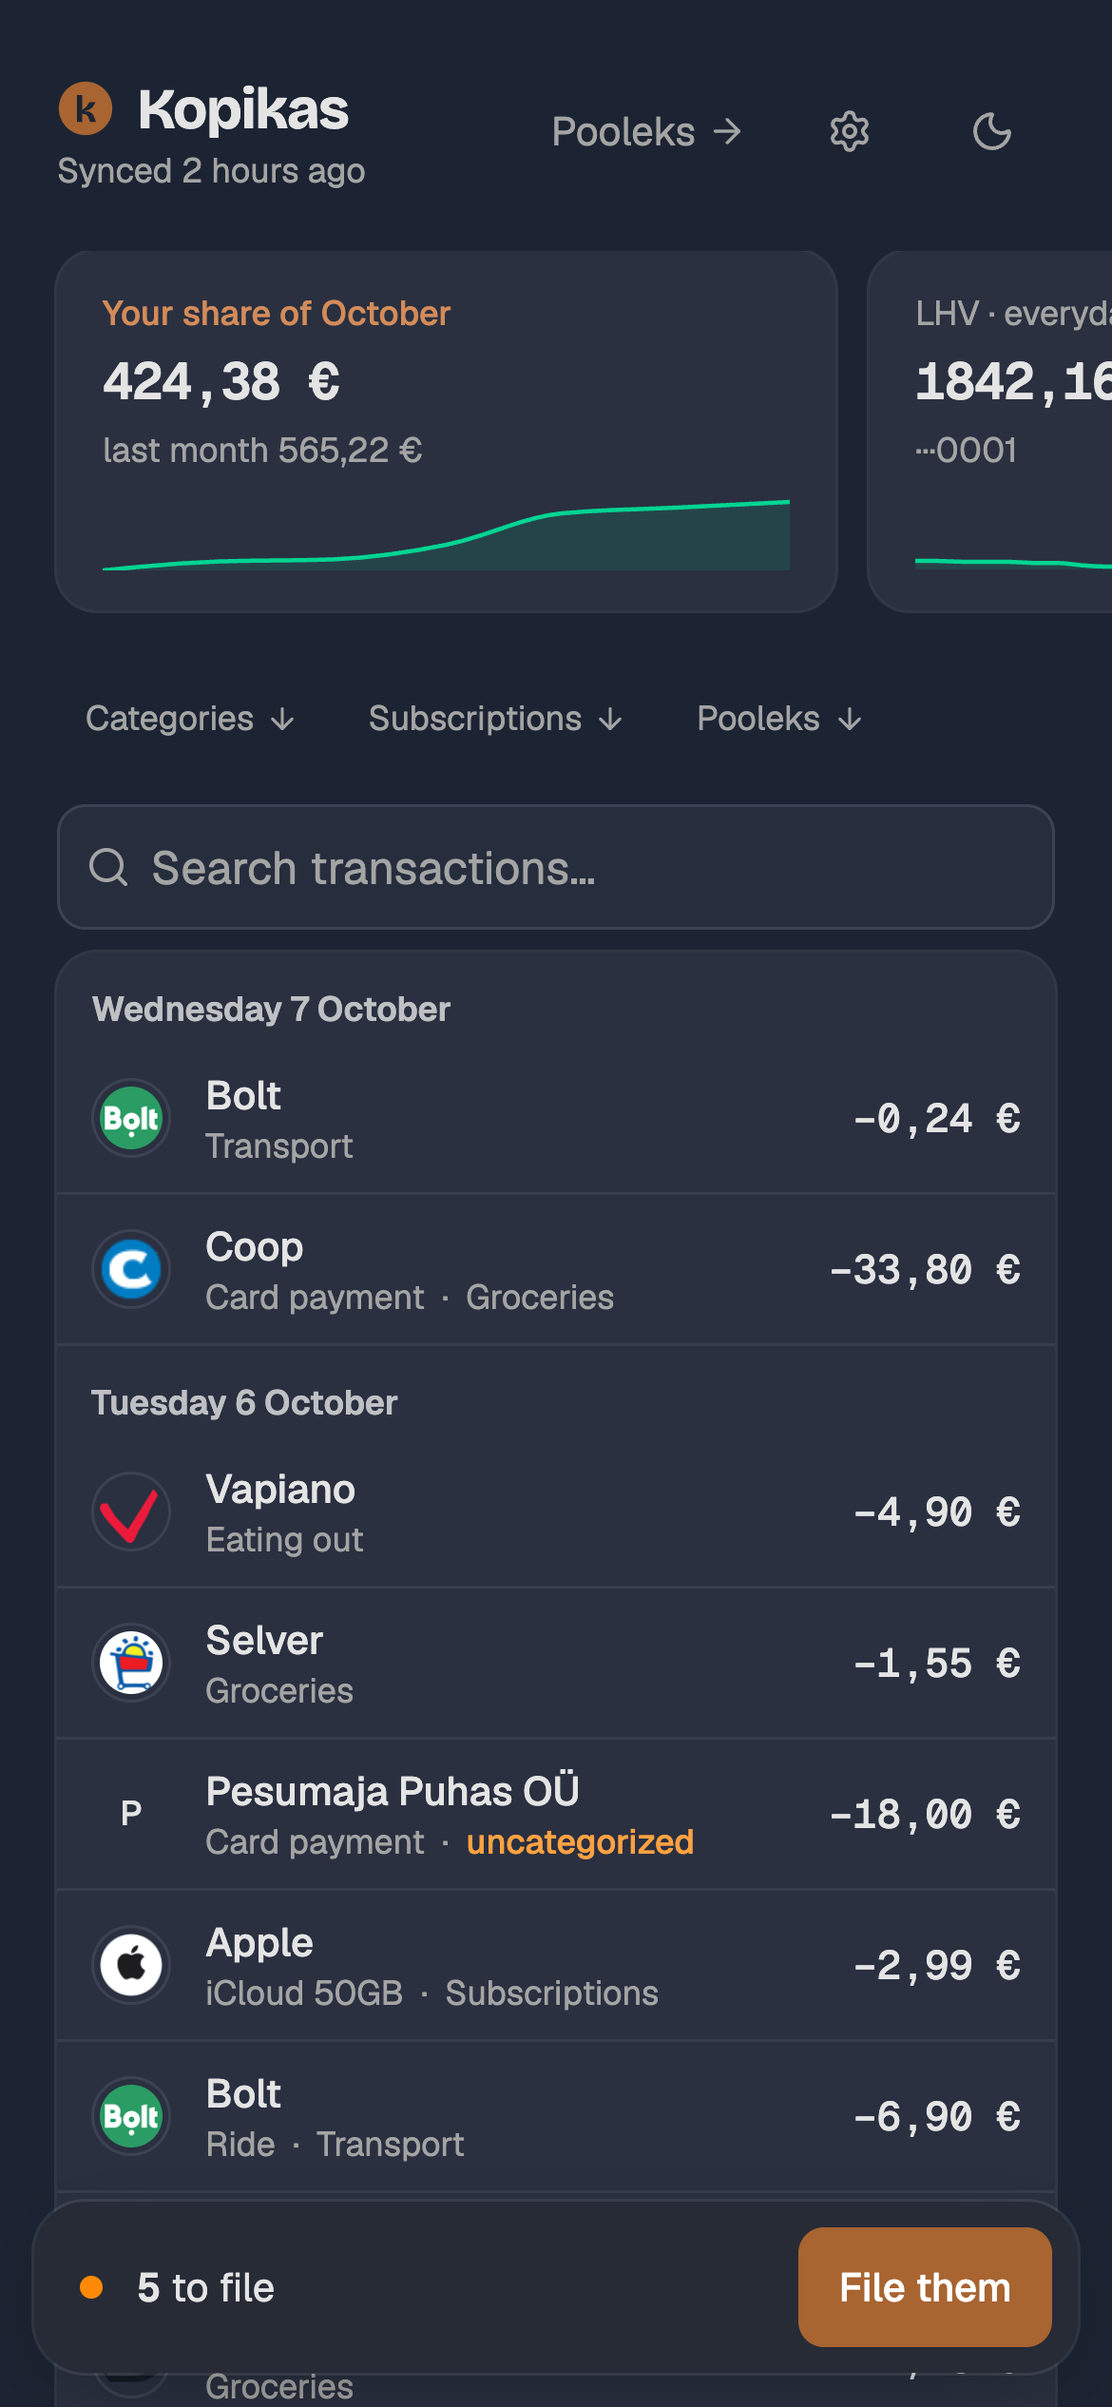
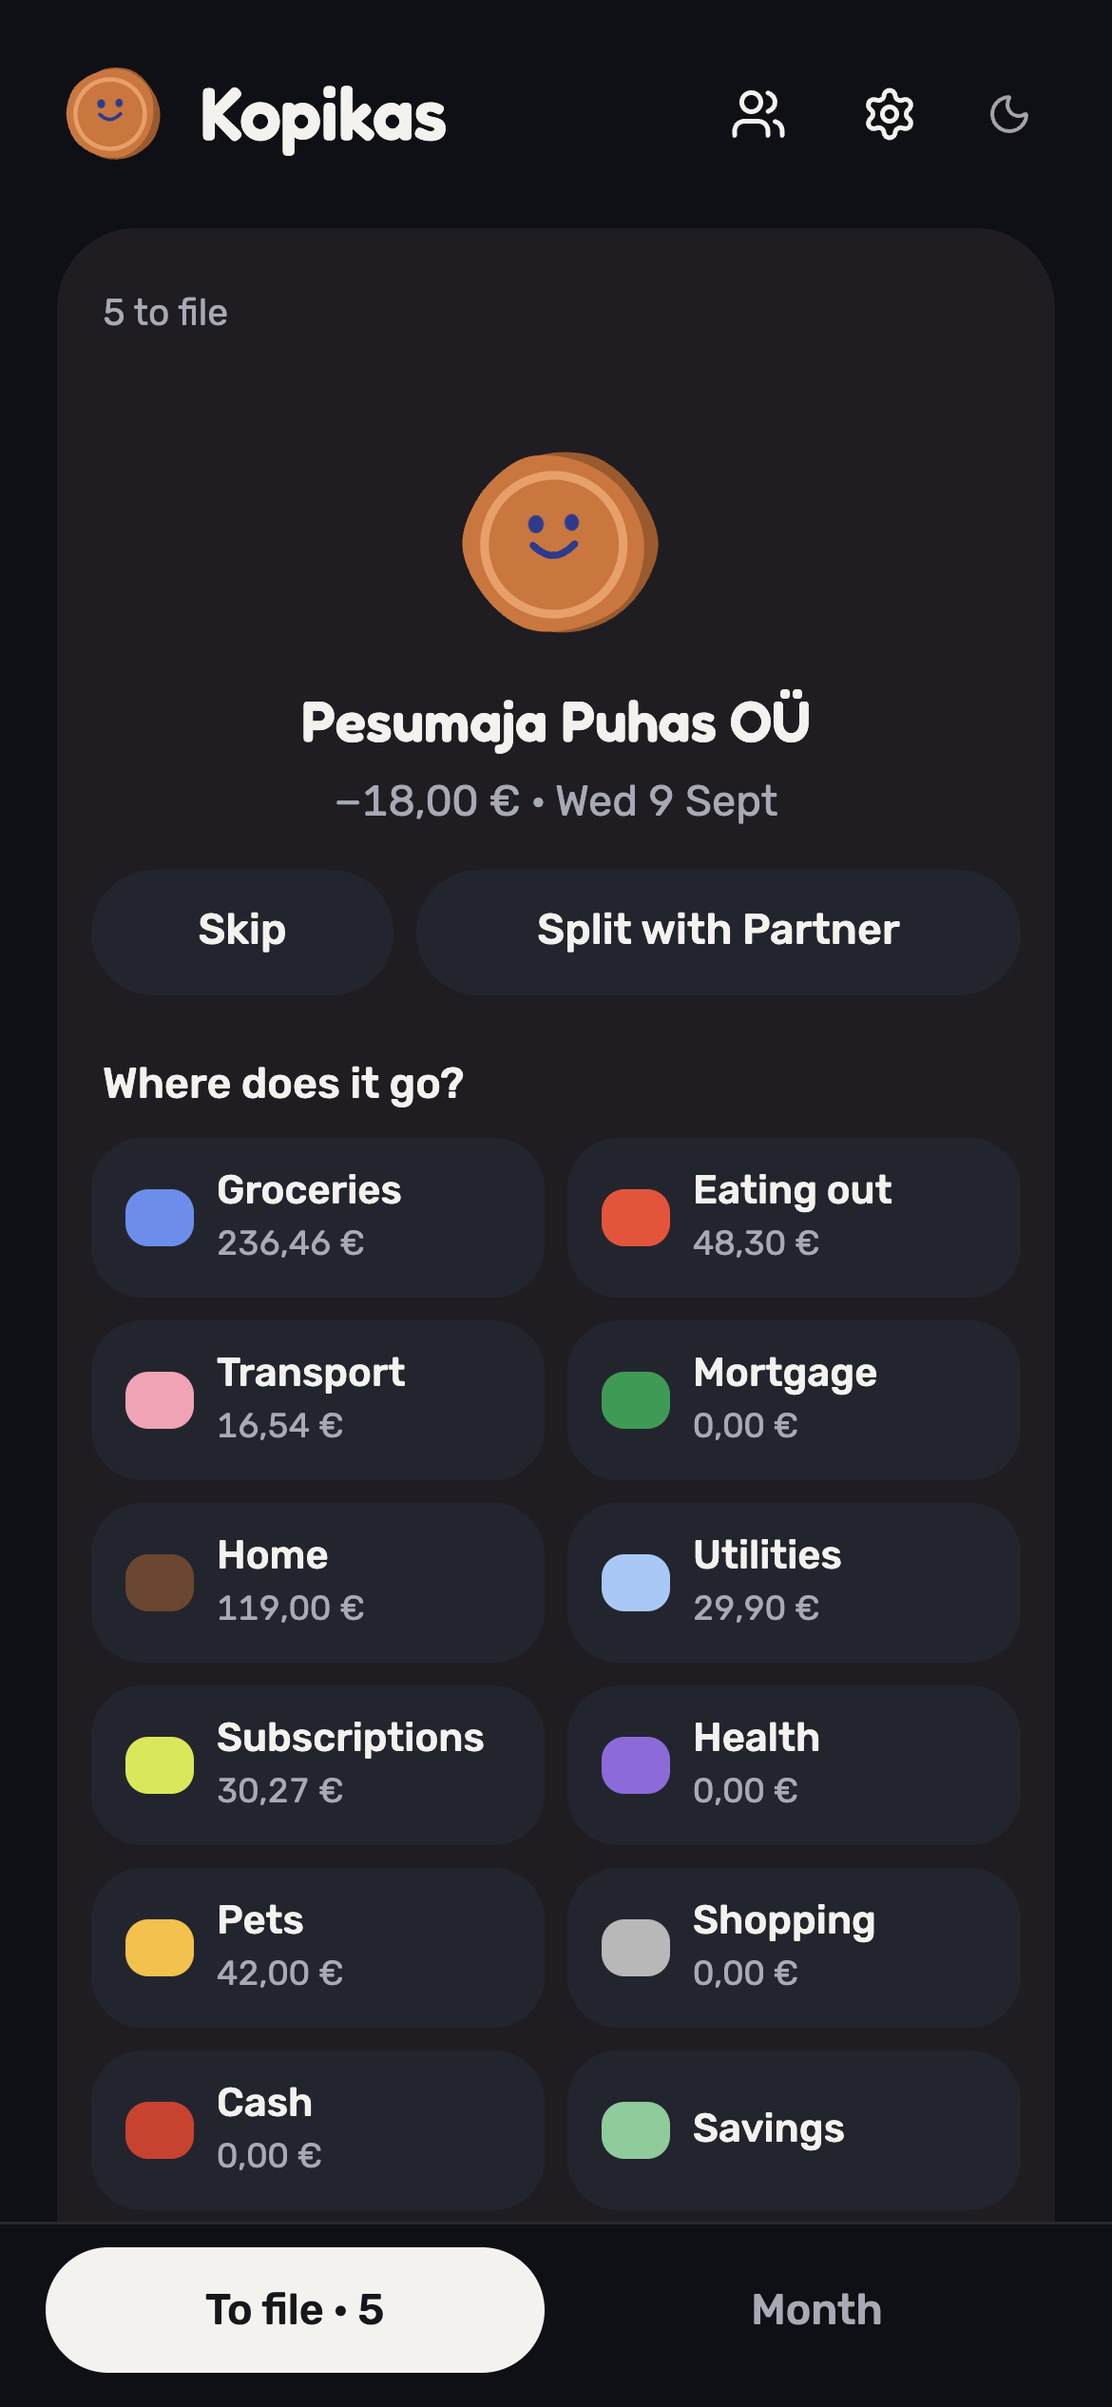
README: the board as it is now, with new pictures
What is on the board, the phone, how it is built and the design notes now
describe the coin tray: rolls on one floor, loose change, a roll's year, the
charges list and its menus, Subscriptions, and the phone's two tabs. New
pictures of the board, filing a coin, the year strip, Subscriptions and the
phone; the old drag GIF and file-under prompt go.

diff --git a/README.md b/README.md
@@ -1,58 +1,58 @@
 # Kopikas
 
-A personal money board fed by LHV bank data. Transactions arrive as one ruled statement, and you file them by dragging. Named after the humble coin: *iga kopikas loeb*, every penny counts.
+A personal money board fed by LHV bank data. Every charge arrives as a coin, and you file it into a roll. Named after the humble coin: *iga kopikas loeb*, every penny counts.
 
 <picture>
   <source media="(prefers-color-scheme: dark)" srcset="docs/board-dark.png">
-  <img alt="The board on mock data: four stat tiles, the ledger grouped by day, and the categories card with five charges to file" src="docs/board-light.png">
+  <img alt="The board on mock data: September's rolls on one floor, Groceries past its limit, and two loose coins waiting to be filed" src="docs/board-light.png">
 </picture>
 
 ## Why
 
-Bank apps are built for a phone: tiny numbers, one transaction at a time, no way to see a month at once. Kopikas wants a big screen. It shows the whole month as one ledger, and categorising becomes a physical gesture: drop a charge on a category, tick *always*, and every past and future charge from that merchant files itself. Two thousand transactions sort themselves in an afternoon.
+Bank apps are built for a phone: tiny numbers, one transaction at a time, no way to see a month at once. Kopikas wants the month as one picture. Every category is a roll with a face that grows as charges go in, all on one shared scale, and categorising becomes a small physical act: drop a coin in a roll, tick *always*, and every past and future charge from that merchant files itself. Two thousand transactions sort themselves in an afternoon.
 
 It is built for one household. Two people sign in, one owns the board and the other sees the shared page. There is no multi-tenant anything.
 
 ## What is on the board
 
-The ledger is the middle column: every transaction, newest first, grouped by day, with the merchant's real name and favicon instead of the bank's shouting string. Click the icon, here or on a subscription row, to give a merchant your own name, a website for its favicon, or an emoji; it applies to every charge from that merchant. Card payments are one line. Transfers keep their payment note. Shared rows wear a faint purple wash. Search sits above it and matches the names you see, not only the bank's strings. The current view lives in the URL (`?cat`, `?month`, `?q`), so a filtered month is a link you can keep.
+The month is the tray at the top. Every category is a roll on one floor, as tall as what went into it that month on a shared scale, so the shape of the month shows before you read a number; every amount is still written under its roll. A roll with nothing in it sleeps, a short one shows only its eyes, a grown one its whole face. Give a category a monthly limit and its roll stands in a dashed outline the limit's height, a jar it is filling; past the limit, the part above the line turns a shade darker. Above the floor, arrows step through the months, and Paid out is everything that left the account that month except savings, shared costs at full price. The line under it says what came in, your share in a month with splits, the account balances and the investments. The LHV investment account is read from the API on every sync, one snapshot a day refreshed through the day; the Lightyear pot has no API and is entered by hand. Under the wordmark, the board says when it last heard from LHV; past 26 hours that line turns into a warning that links to Settings.
 
-A row's category is also a button. It opens a menu with every category, the split with the partner, and the merchant's name and icon, so everything a drag can do works from the keyboard too.
+Charges not filed yet are the loose change, a small pile of coins in the corner of the tray. Pick one up and tap a roll, and it hops in; the roll gulps and grows. The notice that follows offers *Always*, which writes a rule: a lowercase substring matched against the counterparty and description, so every past and future charge from that merchant files itself. Rules are listed on the Settings page, grouped by the category they file into, with the ones that match nothing gathered first. The tray shows one month at a time; coins from other months wait in their own, and a line under the pile takes you there.
 
-The rail on the right puts every drop target at the top: the categories card, then a strip with the two other places a charge can go, Track as a subscription and Split with the partner. Below them sit the cards you only read: subscriptions, the Pooleks balance and investments over time. While a charge is in the air the reading cards fold away and every target is outlined, so they all fit on screen.
+![Picking up a loose coin and tapping Home: the coin hops into the roll, Home grows from 119 € to 137 €, and the notice offers Always and Undo](docs/filing.gif)
 
-Categories start as a default list, and a cog on the card renames them, adds new ones or drags them into a new order; a rename carries every rule and filed charge along. Arrows in the card's header step through the months. Each row shows the month's total with a copper bar for its share of the largest, and each row is a drop target. Give a category a monthly limit in the same dialog and its bar becomes a meter against the limit, amber once it is passed. Select a category and a twelve-month strip appears above the ledger: a bar per month, the average as a line, the limit as another; click a month to move the card there. A drop asks whether to file just this one or *always*; *always* writes a rule, which is a lowercase substring matched against the counterparty and description. Rules are listed on the Settings page, grouped by the category they file into, with the ones that match nothing gathered first. Under the categories, Paid out is everything that left the account that month except savings, shared costs at full price. Incoming money has its own line, Received; clicking it shows who sent what.
+Tap a roll and the board looks at that category: the other rolls fade, the list below shows its charges, and the line under the total becomes its last twelve months, a bar a month drawn like the rolls, with the average and the limit. Click a bar to go to that month. The current view lives in the URL (`?cat`, `?month`, `?q`), so a category in a given month is a link you can keep.
 
-![Dragging an uncategorised charge onto the Home row and choosing Always: the merchant's other charges file with it, and five to file becomes Everything filed](docs/drag.gif)
+<img src="docs/year-light.png" width="560" alt="Groceries chosen: a bar for each of the last twelve months under the total, the limit dashed across them, September at full strength">
 
-<img src="docs/file-under.png" width="620" alt="The prompt after the drop: file every charge from this merchant here, or only this one">
+Below the tray, Every charge lists the month newest first, with the merchant's real name and favicon instead of the bank's shouting string. Card payments are one line. Transfers keep their payment note. Search looks through every month and matches the names you see, not only the bank's strings, and Money in shows what came in and from whom. A row's category is a button: it opens a menu with every category, the split with the partner, and the merchant's name and icon, so everything a drag can do works from the keyboard too. On a big screen a row can also be dragged straight onto a roll. Click a merchant's icon to give it your own name, a website for its favicon, or an emoji; it applies to every charge from that merchant.
 
-Subscriptions watches recurring charges. Drop one on Track as a subscription, or on the Subscriptions row in the categories card, and the board records the merchant pattern and expected amount, then tracks the last charge, the next due date, and whether the price moved. A price change shows as a badge you click to accept the new price. A charge that stops arriving shows as gone quiet. Rows group into monthly and yearly, with a per-month total at the bottom that spreads the yearly ones over twelve months; the guess between the two reads the statement text when there is only one charge to go on, re-measures itself once a second charge lands, and a control on each row corrects it for good.
+Categories start as a default list, and Edit categories under the tray renames them, adds new ones, drags them into a new order and sets their limits; a rename carries every rule and filed charge along.
+
+Subscriptions watches recurring charges. File a charge in the Subscriptions roll and the board records the merchant pattern and expected amount, then tracks the last charge, the next due date, and whether the price moved. The card beside the list shows only what needs you, a new price to accept, one gone quiet, one due within a week, and what they all cost a month, the yearly ones spread over twelve. The full list opens in place, monthly and yearly apart. The guess between the two reads the statement text when there is only one charge to go on and re-measures itself once a second charge lands; each row's menu corrects it for good, renames the subscription or stops tracking it.
 
 <p>
-  <img src="docs/subscriptions-dark.png" width="380" alt="The Subscriptions card: monthly and yearly groups, a price-change badge to accept, and a per-month total that spreads the yearly ones over twelve months">
-  <img src="docs/mobile-dark.png" width="290" alt="The board on a phone">
+  <img src="docs/subscriptions-dark.png" width="380" alt="The Subscriptions card: a new price to accept, one gone quiet, and the full list open on a row's menu with Name and icon, Make yearly and Stop tracking">
+  <img src="docs/mobile-dark.png" width="290" alt="The board on a phone: one coin to file, Skip and Split under it, and a tile for every category">
 </p>
 
-Pooleks (Estonian for *in half*) is the shared ledger. Drop a charge on Split with the partner, with a 1/2, 1/3 or 1/4 split, and it becomes a line on a running statement of who owes whom. Each line shows its amount and an arrow: who owes whom for a shared cost, who paid whom for a repayment. Choose Always and every future charge from that merchant lands on the statement by itself at the same split; past charges are left alone, and the rule can be removed on Settings. The partner signs in and sees the same statement with the labels flipped, plus a dialog to add what they paid for. Either of you records a repayment with Settle up, which shows what the amount would leave open before it is recorded; either can remove one, and new ones say who recorded them. Everything before the latest repayment folds into one line, so the statement shows what is open. This is what replaced Splitwise here: the rows come from the bank, so nothing is typed twice.
+Pooleks (Estonian for *in half*) is the shared ledger. Split a charge from its row's menu, at 1/2, 1/3 or 1/4, and it becomes a line on a running statement of who owes whom; the Pooleks card beside the list says where the balance stands. Each line shows its amount and an arrow: who owes whom for a shared cost, who paid whom for a repayment. Choose Always and every future charge from that merchant lands on the statement by itself at the same split; past charges are left alone, and the rule can be removed on Settings. The partner signs in and sees the same statement with the labels flipped, plus a dialog to add what they paid for. Either of you records a repayment with Settle up, which shows what the amount would leave open before it is recorded; either can remove one, and new ones say who recorded them. Everything before the latest repayment folds into one line, so the statement shows what is open. This is what replaced Splitwise here: the rows come from the bank, so nothing is typed twice.
 
 ![Pooleks: the shared statement, one amount and an arrow per line, opened past the latest repayment to show the lines before it](docs/pooleks-dark.png)
 
-The stat row across the top shows your share of this month's spending against last month (shared costs at your part), the account balances with a 30-day line each, and an Investments tile. The LHV investment account is read from the API on every sync, one snapshot a day refreshed through the day; the Lightyear pot has no API and is entered by hand. Both are charted over time. Under the wordmark, the board says when it last heard from LHV; past 26 hours that line turns amber and links to Settings.
+Most one-click changes can be taken back: filing a charge, tracking a subscription, splitting a charge or taking it off Pooleks, forgetting a rule, stopping a subscription, accepting a new price, recording or removing a repayment. A notice offers Undo for a few seconds, and ⌘Z or Ctrl+Z does the same. When a change fails, the page says why instead of pretending it worked.
 
-Most one-click changes can be taken back: forgetting a rule, taking a charge off Pooleks, cancelling a subscription, accepting a new price, recording or removing a repayment. A notice offers Undo for a few seconds, and ⌘Z or Ctrl+Z does the same. When a change fails, the page says why instead of pretending it worked.
-
-On a phone the board is one column. The stat tiles become a row you swipe, a bar at the foot of the screen counts what is left to file, and tapping it narrows the ledger to that queue. Tapping a row opens a sheet with every category as a large button; each filed row leaves, and the next one is where your thumb is. Filing a backlog is the phone's job; seeing the month at once is still the big screen's.
+On a phone the board is two tabs at the foot of the screen. To file is the backlog from every month, one coin at a time: the merchant, the amount and the day, Skip and Split under it, and every category as a large tile with what it already holds that month. Tap one and the next coin comes up where your thumb is. Month is the tray, its rolls lying down as bars, with the charges and the cards below. Filing a backlog is the phone's job; seeing the month at once is still the big screen's.
 
 ## How it is built
 
-Next.js 16 on the App Router, React 19, TypeScript, Tailwind v4, shadcn/ui on Base UI. Drag and drop is dnd-kit, for the mouse; the keyboard and touch file through a Base UI menu and a sheet. The ledger's enter and exit animation is Motion, one flat presence for headers and rows alike. Rows are memoised and compare the fields they show, so a thousand of them only redraw when they change, and an action's reply carries the fresh board, so a change is one request. Sign-in is Clerk. Production runs on Vercel with Postgres on Neon.
+Next.js 16 on the App Router, React 19, TypeScript, Tailwind v4, shadcn/ui on Base UI. The tray is SVG drawn in code: every roll, coin and face is a path whose edges are nudged in long, seeded waves, so it looks cut by hand yet keeps its shape from one render to the next, and Motion springs the hops, the gulps and the growing. Drag and drop is dnd-kit, for the mouse; the keyboard files through a Base UI menu, and a finger through the phone's queue. An action's reply carries the fresh board, so a change is one request. Sign-in is Clerk. Production runs on Vercel with Postgres on Neon.
 
 One storage module, `lib/storage.ts`, hides two adapters behind the same interface. With `DATABASE_URL` set it talks to Postgres and creates or updates its own tables on first start; without it, each collection is a JSON file under `data/`. The JSON adapter seeds mock data into an empty folder, so `npm run dev` with no configuration at all gives you a working board with invented merchants and amounts. That is how the screenshots were made. Production starts empty and asks you to connect LHV. `data/` is gitignored, so nothing real can end up in the repo by accident.
 
 Merchant identity lives in `lib/icons.ts`: a small table of known merchants with a favicon domain and a display name, matched on the counterparty or, for card payments that only carry a merchant id, on the description. Unknown ALL-CAPS strings are title-cased. Favicons are fetched once by the server and cached in the database, so the merchant list never leaves the app from a viewer's browser.
 
-Design notes: copper accent from the coin, Geist for text and Geist Mono for amounts with tabular figures, Bricolage Grotesque for the wordmark and the section heads, green and red reserved for money in and money out, purple for shared, amber for things that need filing. The colours that are also fills have a darker shade for text, which reads at 4.5:1 in both themes.
+Design notes: the board is painted, not charted. A white page, a warm oat stage, copper from the coin as the house colour, and one matte wrapper colour per category, given by its place in the list; every face is drawn in the same crayon. Fredoka is the voice (the wordmark, the month, the total, section heads) and Rubik everything that is read, with tabular figures for amounts in Estonian format. Edges wobble in the path, never through a filter, and nothing casts a shadow but the oval each character stands on. `DESIGN.md` has the rest. Pooleks, Settings and the first run still wear the earlier look, Geist and Bricolage Grotesque on grey, until they get their own pass.
 
 ## The LHV integration
 
@@ -113,7 +113,7 @@ The LHV API is in beta and changed during the build. If the sync starts returnin
 
 ## Credits
 
-The painted look of the coin tray prototype (`/coins`) and of Kopikas there, with flat colour, soft round shapes and faces of two dots and a curve, follows the tufted characters of KAIA ([@saiakuubik](https://www.instagram.com/saiakuubik/)), and is used with her permission.
+The painted look of the board and of Kopikas, with flat colour, soft round shapes and faces of two dots and a curve, follows the tufted characters of KAIA ([@saiakuubik](https://www.instagram.com/saiakuubik/)), and is used with her permission.
 
 ## License
 
